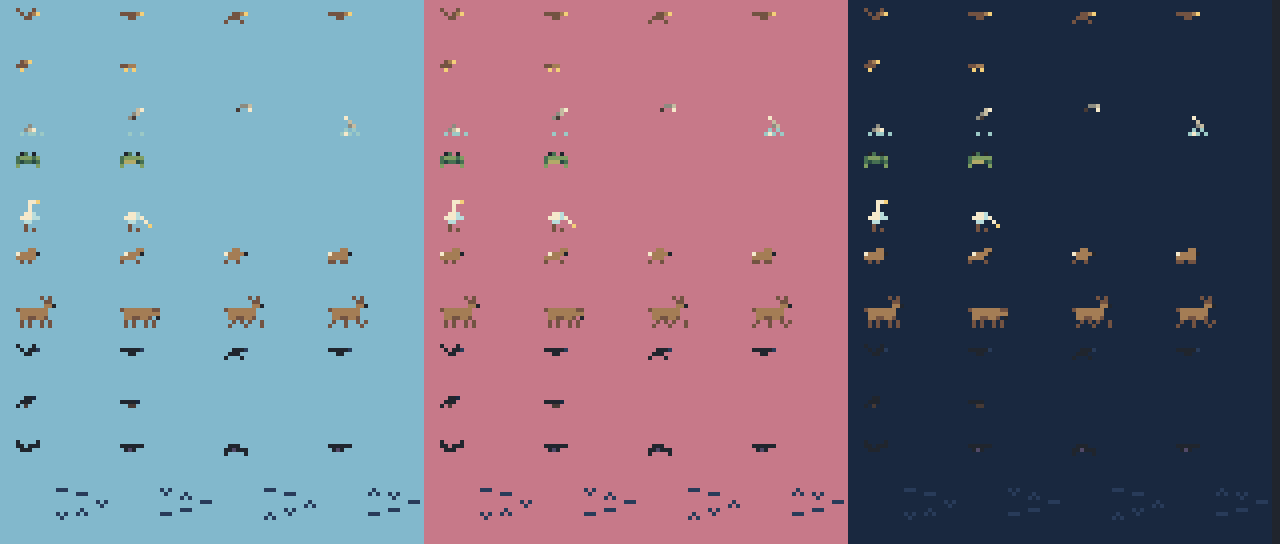
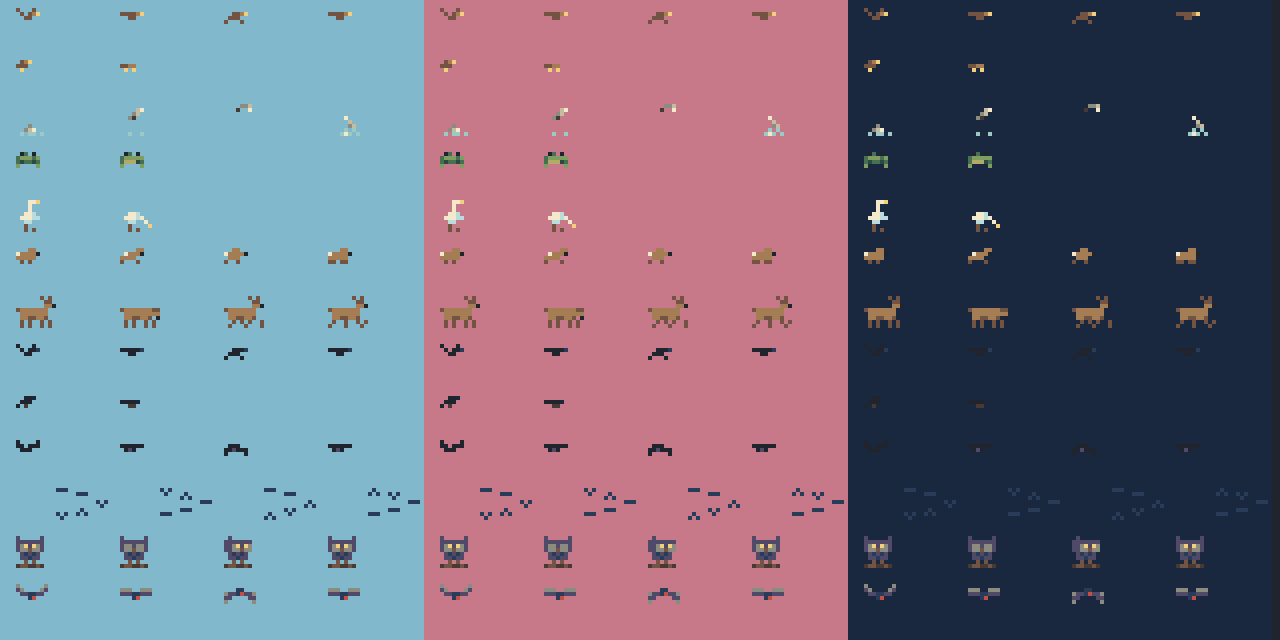
Coruja pousada piscando e morcego da madrugada (criaturas/), em tons de noite; LEIA-ME seção 17; atlas regenerados

diff --git a/arte_claude/pecas/criaturas/criaturas.py b/arte_claude/pecas/criaturas/criaturas.py
@@ -89,6 +89,22 @@ CRIATURAS = {
     ),
     # bando migrando no inverno: 7 pássaros em V (24x8), asas alternadas
     "bando_migrando_4q": None,
+    # coruja pousada num galho (7x8), já em tons de noite: olhos amarelos que piscam e viram.
+    # Quadros: olhando, piscando, olhando para o lado, olhando.
+    "coruja_pousada_4q": molde(
+        ["K.....K", "KKKKKKK", "KgyKygK", "KggnggK", ".KkKkK.", ".KKkKK.", "..n.n..", "dnnddnd"],
+        ["K.....K", "KKKKKKK", "KggKggK", "KggnggK", ".KkKkK.", ".KKkKK.", "..n.n..", "dnnddnd"],
+        [".K.....", "KKKKKKK", "KKgyKyg", "KKggngg", ".KkKkK.", ".KKkKK.", "..n.n..", "dnnddnd"],
+        ["K.....K", "KKKKKKK", "KgyKygK", "KggnggK", ".KkKkK.", ".KKkKK.", "..n.n..", "dnnddnd"],
+    ),
+    # morcego da madrugada (8x5), maior que o do entardecer e com a borda das asas clara
+    # (luz da lua) para ler sobre o céu escuro; olhos vermelhos
+    "morcego_noite_4q": molde(
+        ["g......g", "Kg....gK", ".KKkkKK.", "...kr...", "........"],
+        ["........", "ggg..ggg", "KKKkkKKK", "...kr...", "........"],
+        ["........", "...kk...", "gKKkrKKg", "KK....KK", "g......g"],
+        ["........", "ggg..ggg", "KKKkkKKK", "...kr...", "........"],
+    ),
 }
 
 
@@ -121,6 +137,8 @@ QUANDO = {
     "corvo_pousado_2q": ("todas", "dia", "pousado perto dos mortos e das ruínas"),
     "morcego_4q": ("primavera, verão, outono", "entardecer e começo da noite", "sai da floresta e das ruínas"),
     "bando_migrando_4q": ("inverno (e fim do outono)", "dia", "atravessa o céu alto de um lado a outro"),
+    "coruja_pousada_4q": ("todas", "noite e madrugada", "pousada num galho de árvore ou no telhado; pisca"),
+    "morcego_noite_4q": ("primavera, verão, outono", "noite e madrugada", "voa em zigue-zague perto das árvores e da fogueira"),
 }
 
 

diff --git a/arte_claude/pecas/LEIA-ME.md b/arte_claude/pecas/LEIA-ME.md
@@ -459,7 +459,7 @@ As amostras são `amostra_tela_estante_4x.png` (duas prateleiras com 12 eras) e 
 
 ## 17. Vida ambiente (`criaturas/`)
 
-São criaturas que não fazem parte da simulação: só dão vida ao cotidiano. São pequenas, animadas e olham para a direita; para o outro lado, o motor espelha. A base é a última linha: os pés de quem está no chão, ou o centro de quem voa. Elas usam a tabela `noite`, menos os morcegos, que já são escuros. `amostra_criaturas_4x.png` mostra todas sobre o dia, o entardecer e a noite.
+São criaturas que não fazem parte da simulação: só dão vida ao cotidiano. São pequenas, animadas e olham para a direita; para o outro lado, o motor espelha. A base é a última linha: os pés de quem está no chão, ou o centro de quem voa. Elas usam a tabela `noite`, menos os morcegos e a coruja, que já vêm em tons de noite. `amostra_criaturas_4x.png` mostra todas sobre o dia, o entardecer e a noite.
 
 | Folha | Quadro | Quadros | Estação | Horário | Onde e como |
 |---|---|---|---|---|---|
@@ -472,8 +472,10 @@ São criaturas que não fazem parte da simulação: só dão vida ao cotidiano. 
 | `cervo_4q` | 10 × 8 | 4 | todas menos inverno fundo | manhã (até 9h) | na borda da floresta do morro |
 | `corvo_voar_4q` | 6 × 4 | 4 | todas | dia | sobre campos de batalha e onde há mortos |
 | `corvo_pousado_2q` | 5 × 4 | 2 | todas | dia | pousado perto dos mortos e das ruínas |
-| `morcego_4q` | 6 × 4 | 4 | primavera, verão, outono | entardecer e começo da noite | sai da floresta e das ruínas |
+| `morcego_4q` | 6 × 4 | 4 | primavera, verão, outono | entardecer e começo da noite | sai da floresta e das ruínas; escuro, lê contra o céu do entardecer. De madrugada, use o `morcego_noite_4q`. |
 | `bando_migrando_4q` | 24 × 8 | 4 | inverno (e fim do outono) | dia | atravessa o céu alto de um lado a outro |
+| `coruja_pousada_4q` | 7 × 8 | 4 | todas | noite e madrugada | pousada num galho (o galho vem na peça: a linha 7 é o galho, ponha-a sobre a copa de uma árvore, a ponta de um pinheiro ou um telhado). Quadros: olhando, piscando, olhando para o lado, olhando. Fique no quadro 0 por 2 a 4 s e passe pelo 1 (piscar) ou pelo 2 (virar) por uns 0,3 s. Os olhos amarelos são o que se lê no escuro. |
+| `morcego_noite_4q` | 8 × 5 | 4 | primavera, verão, outono | noite e madrugada | maior que o do entardecer, com a borda das asas clara (a luz da lua) e olhos vermelhos, para ler sobre o céu e as árvores escuras. Voa em zigue-zague perto das árvores e da fogueira, 1 ou 2 por vez, a cada poucos minutos de 1x. |
 
 O `bando_migrando_4q` é uma formação de 5 pássaros em V, por isso passa do limite de 12 × 8. Cada pássaro tem 3 × 2. Os bandos pequenos de verão saem de vários `passaro_voar_4q`, com os quadros defasados.
 
